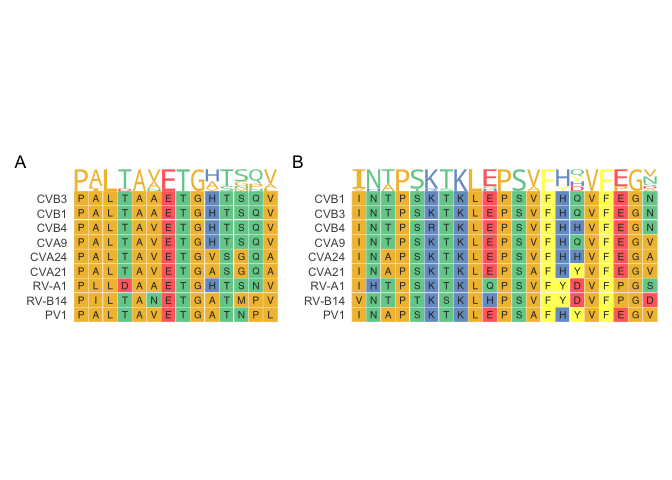
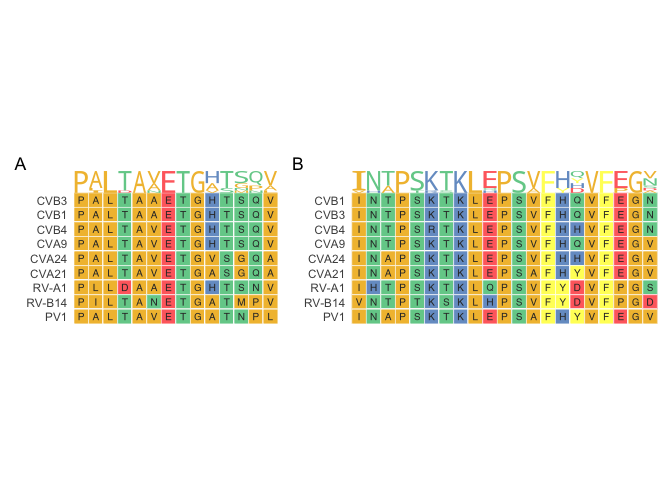
:eye_speech_bubble: updated fig labels

Changed region(s): [[0.0312, 0.3438, 1.0, 0.6875], [0.4375, 0.3125, 0.4688, 0.375], [0.0, 0.3125, 0.0312, 0.3438]]

diff --git a/09_multiple_sequence_alignment_of_nine_evs.md b/09_multiple_sequence_alignment_of_nine_evs.md
@@ -19,7 +19,7 @@ due to how conserved these areas are.
 
 This Rmd replicates:
 
-- Extended Data Fig. 6 \| Full amino acid sequence alignments of the
+- Supplementary Fig. 6 \| Full amino acid sequence alignments of the
   enriched regions of the VP1 and 3D regions of different EV species
 - Fig 2B \| Zoomed in to the VP1 and 3D motifs
 
@@ -126,7 +126,7 @@ extended_data_fig_6
 
 ![](09_multiple_sequence_alignment_of_nine_evs_files/figure-gfm/unnamed-chunk-5-1.png)<!-- -->
 
-**Extended Data Figure 6** Full amino acid sequence alignments of the
+**Supplementary Fig. 06** Full amino acid sequence alignments of the
 enriched regions of the VP1 and 3D regions of different EV species. The
 genome polyprotein amino acid sequences of nine different EV species
 were aligned using BLASTP for comparison: CBV3, CVB1, CVB4, CVA9, CVA24,
